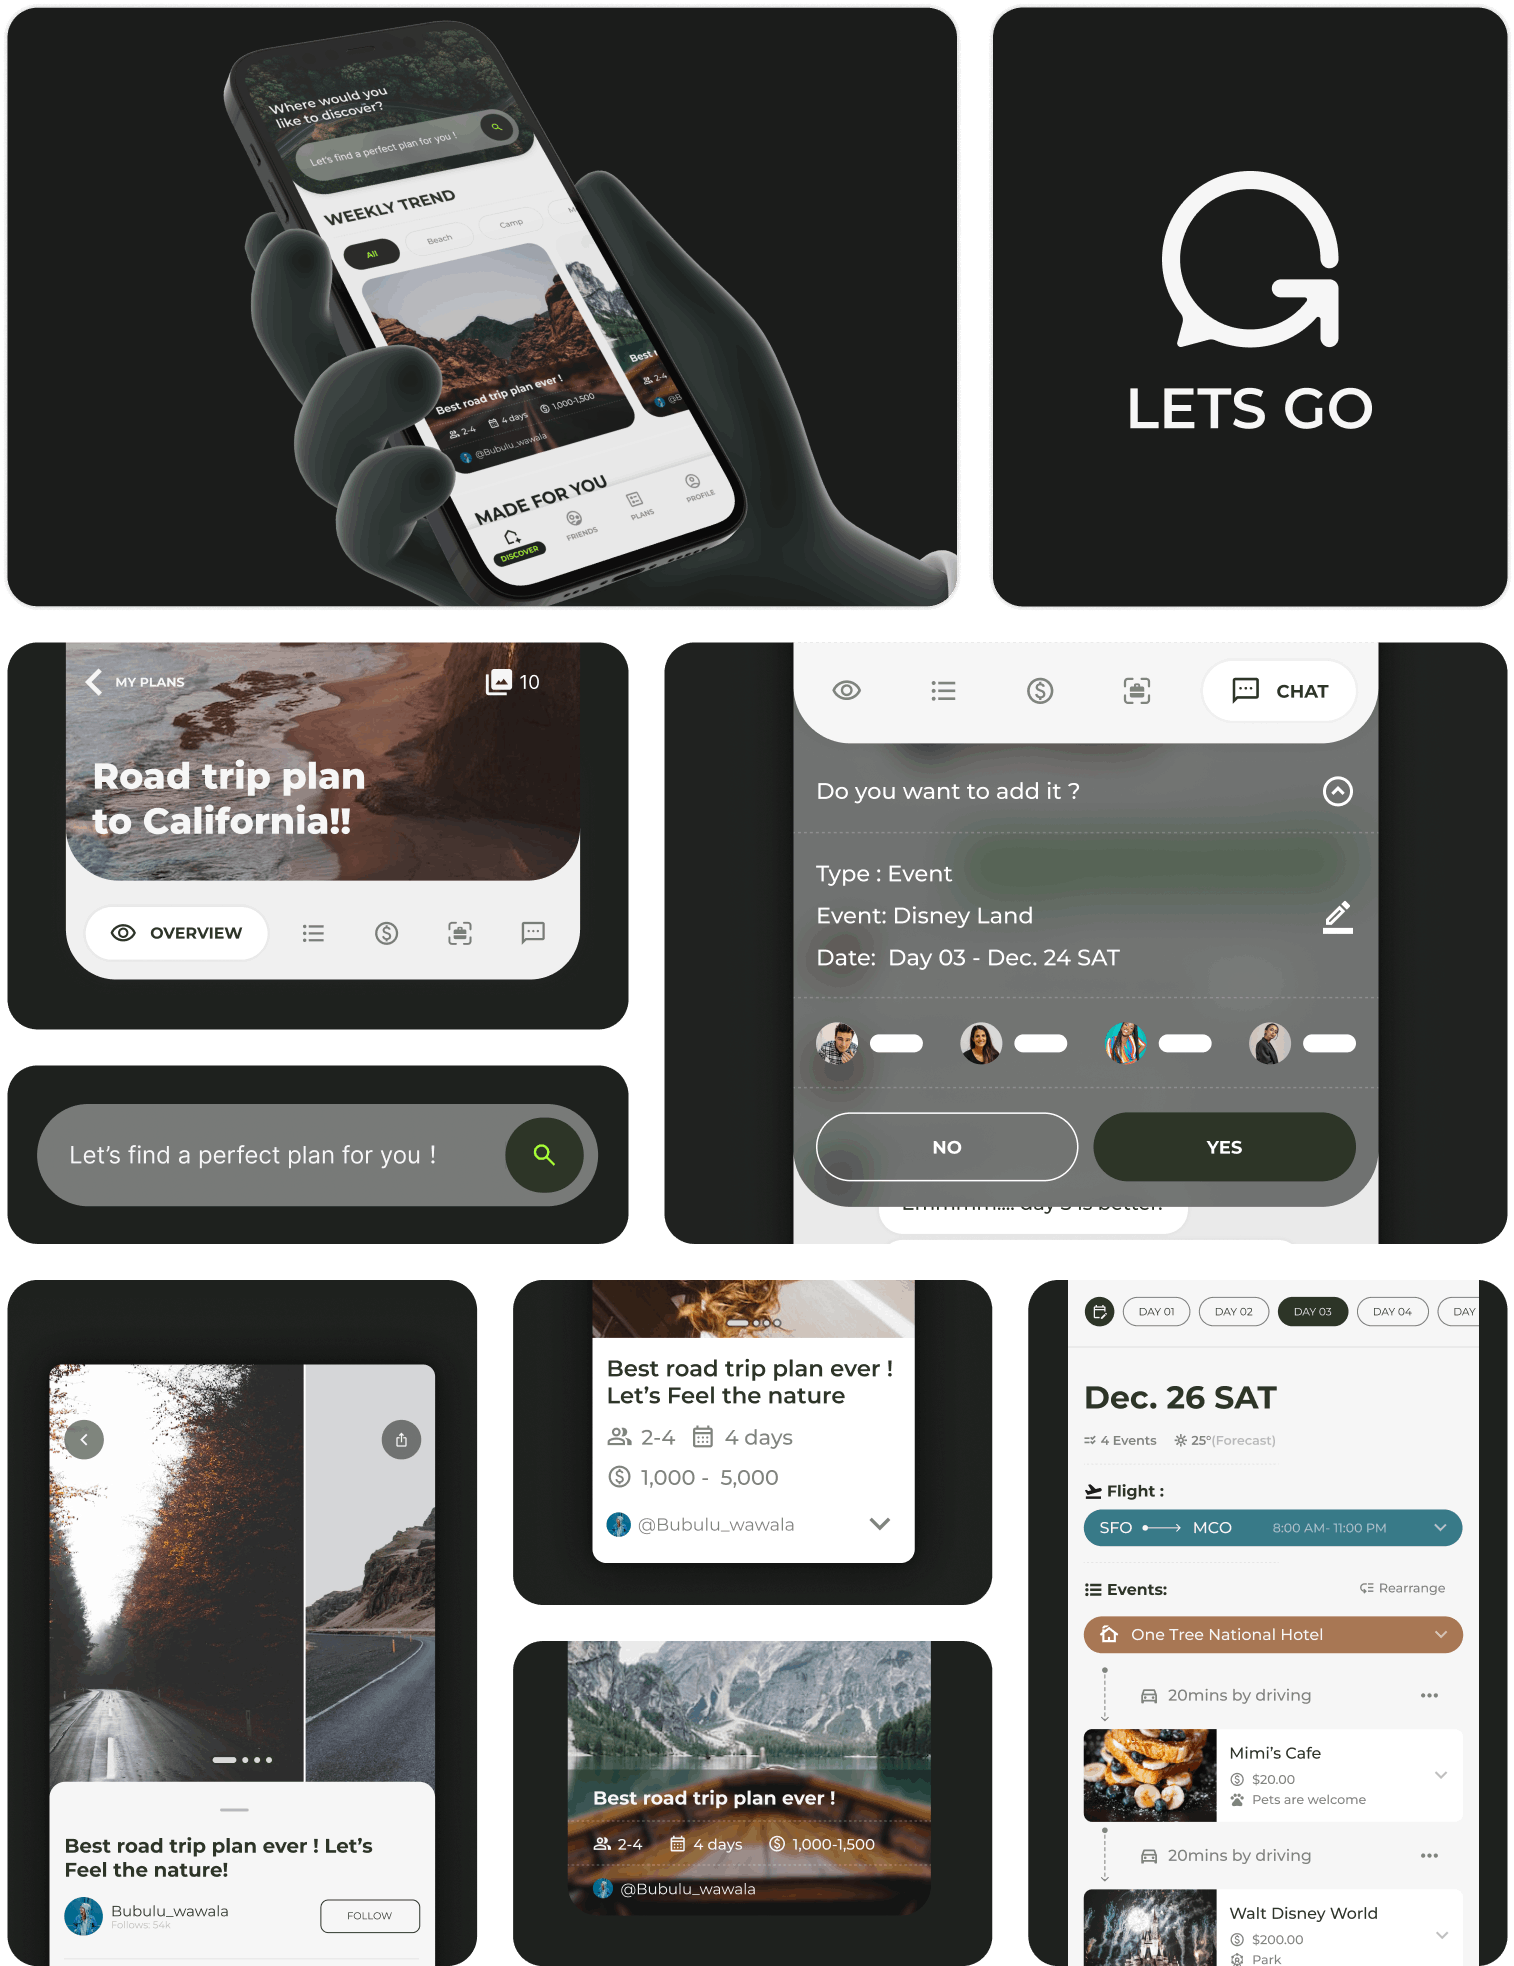
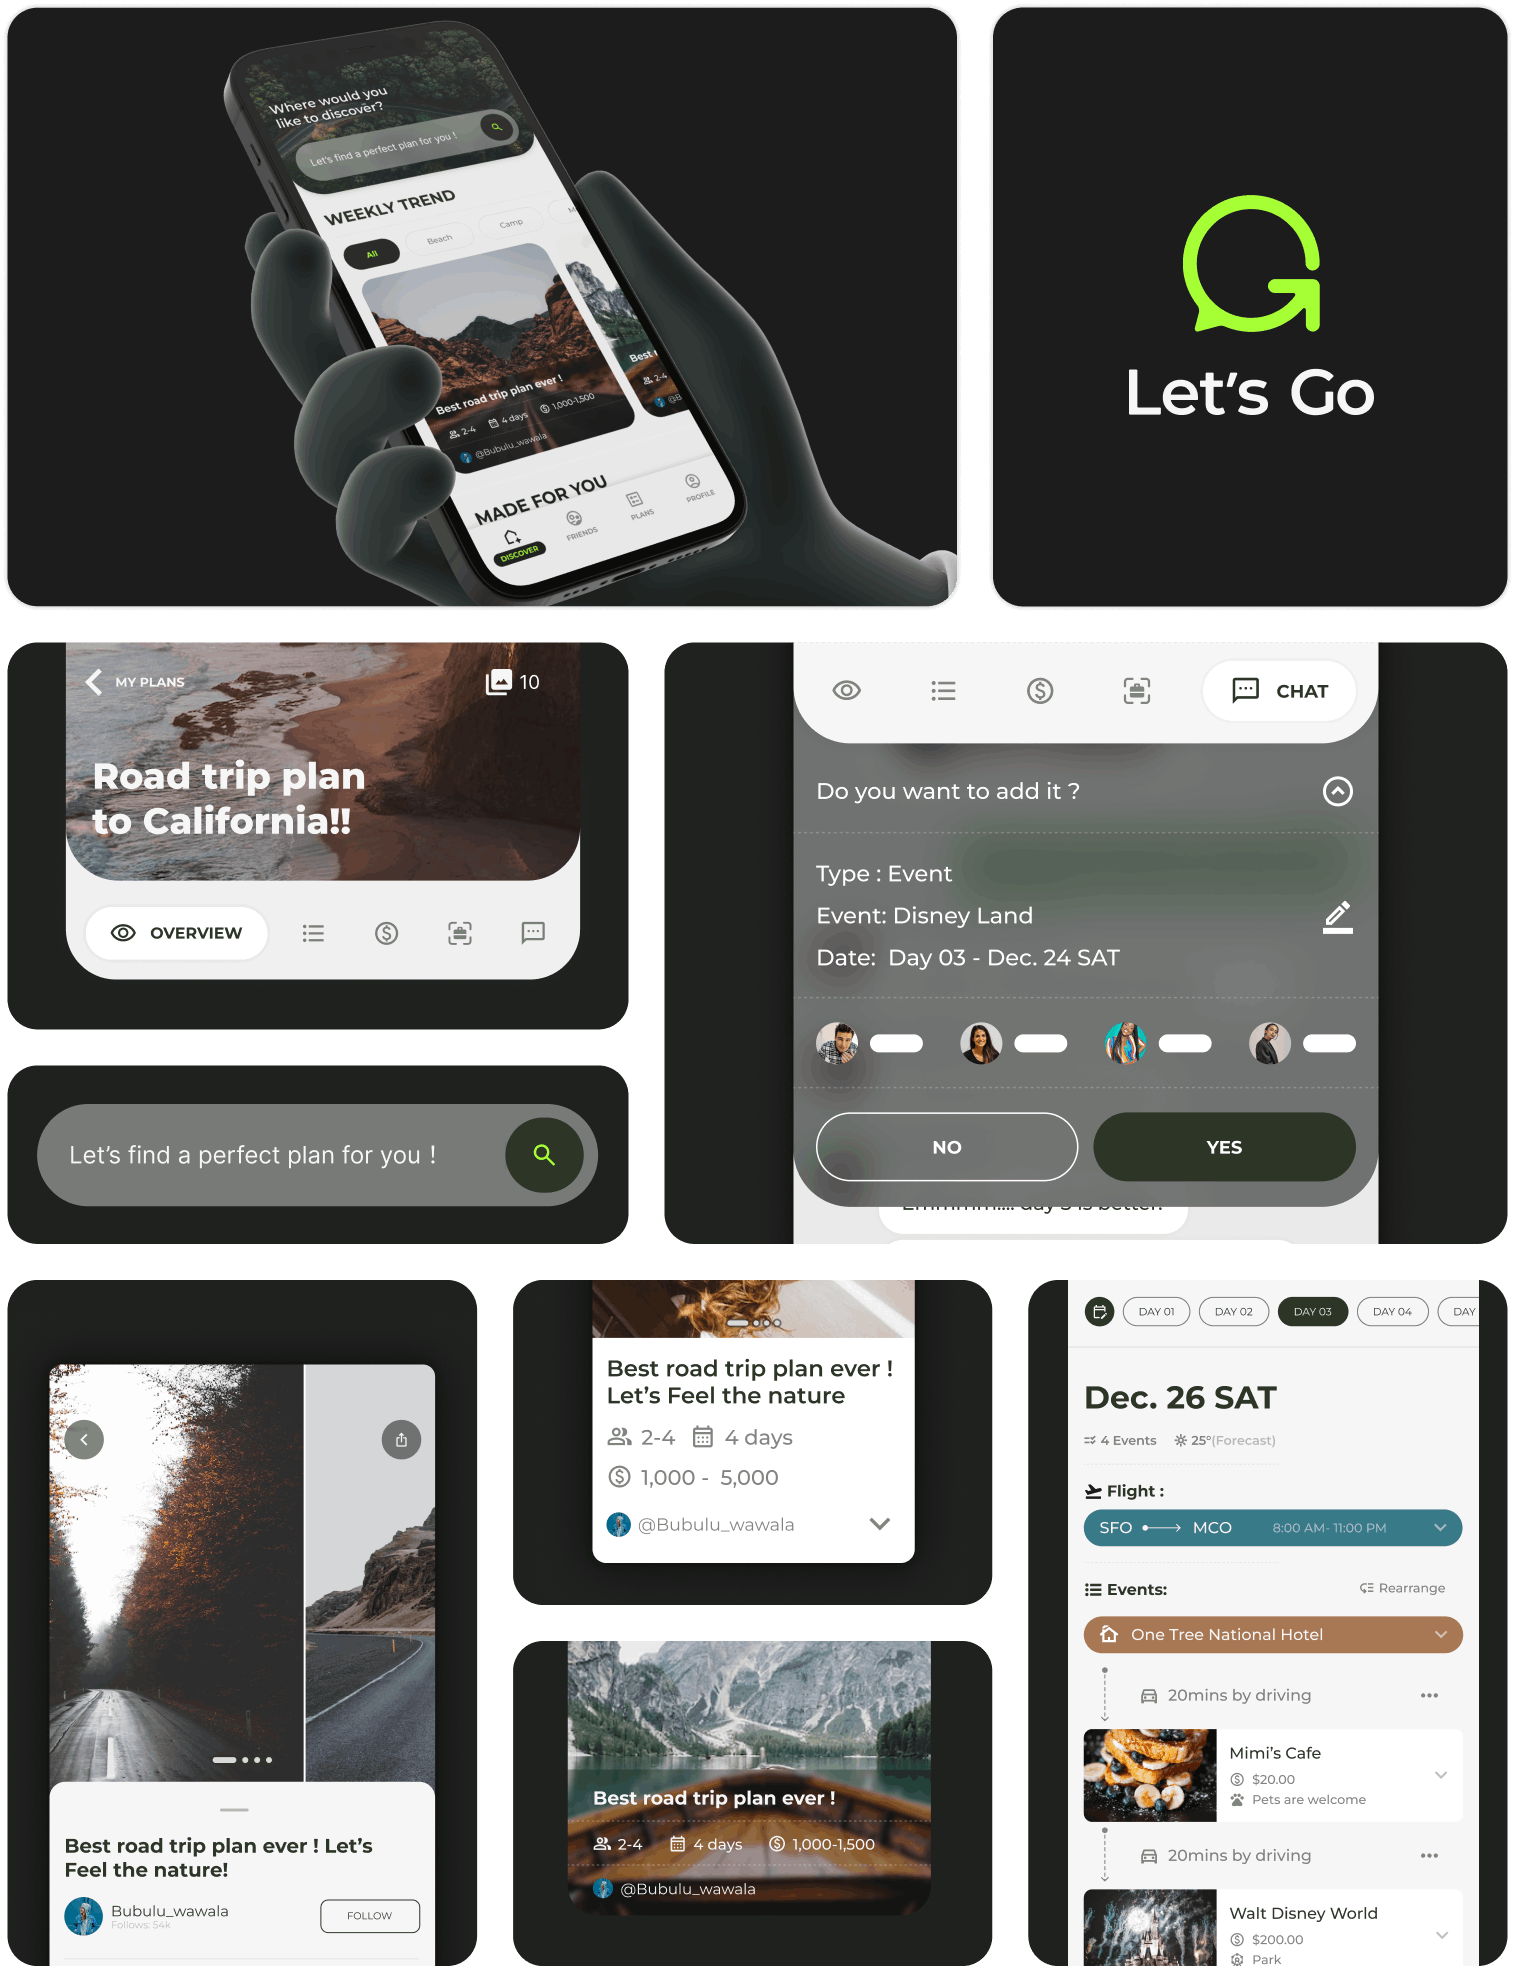
更新了let's go的资源，style guide和research doc

Changed region(s): [[0.745, 0.0621, 0.9313, 0.2172]]

diff --git a/src/components/art_pages/letsgo_page.vue b/src/components/art_pages/letsgo_page.vue
@@ -29,8 +29,8 @@
 
     <div class = "section_container bc_m">
         <div class="content_container">
-            <h1 class="fc_s">LOGO & COLORS</h1>
-            <img class="cardshadow" src="../../assets/art_pages/letsgo/logo.png" alt="">
+            <h1 class="fc_s">STYLE GUIDE</h1>
+            <img_slideshow :slideshow_arr = 'style_arry'/> 
         </div>
     </div> 
 
@@ -352,7 +352,15 @@ import r2 from "../../assets/art_pages/letsgo/r2.png"
 import r3 from "../../assets/art_pages/letsgo/r3.png"
 import r4 from "../../assets/art_pages/letsgo/r4.png"
 import r5 from "../../assets/art_pages/letsgo/r5.png"
+import r6 from "../../assets/art_pages/letsgo/r6.png"
+import r7 from "../../assets/art_pages/letsgo/r7.png"
 
+import l1 from "../../assets/art_pages/letsgo/l1.png"
+import l2 from "../../assets/art_pages/letsgo/l2.png"
+import l3 from "../../assets/art_pages/letsgo/l3.png"
+import l4 from "../../assets/art_pages/letsgo/l4.png"
+import l5 from "../../assets/art_pages/letsgo/l5.png"
+import l6 from "../../assets/art_pages/letsgo/l6.png"
 
 const store = useStore()
 
@@ -403,6 +411,20 @@ const store = useStore()
         ]
     }    
 
+        //style guid
+    let style_arry = {
+        color:'var(--p-color-sub)',
+        type:'img',
+        resize:false,
+        contents:[
+            [l1,""],
+            [l2,""],
+            [l3,""],
+            [l4,""],
+            [l5,""],
+            [l6,""]
+        ]
+    }  
 
     //研究总结
     let research_arry = {
@@ -410,11 +432,13 @@ const store = useStore()
         type:'img',
         resize:false,
         contents:[
-            [r1,"Competitive Analysis Overview"],
-            [r2,"Interview Results Summary"],
+            [r1,"Background Research Summary"],
+            [r2,"Background Research Summary"],
             [r3,"Background Research Summary"],
             [r4,"Background Research Summary"],
-            [r5,"Background Research Summary"]
+            [r5,"Background Research Summary"],
+            [r6,"Interview Results Summary"],
+            [r7,"Competitive Analysis Overview"]
         ]
     }  
 
